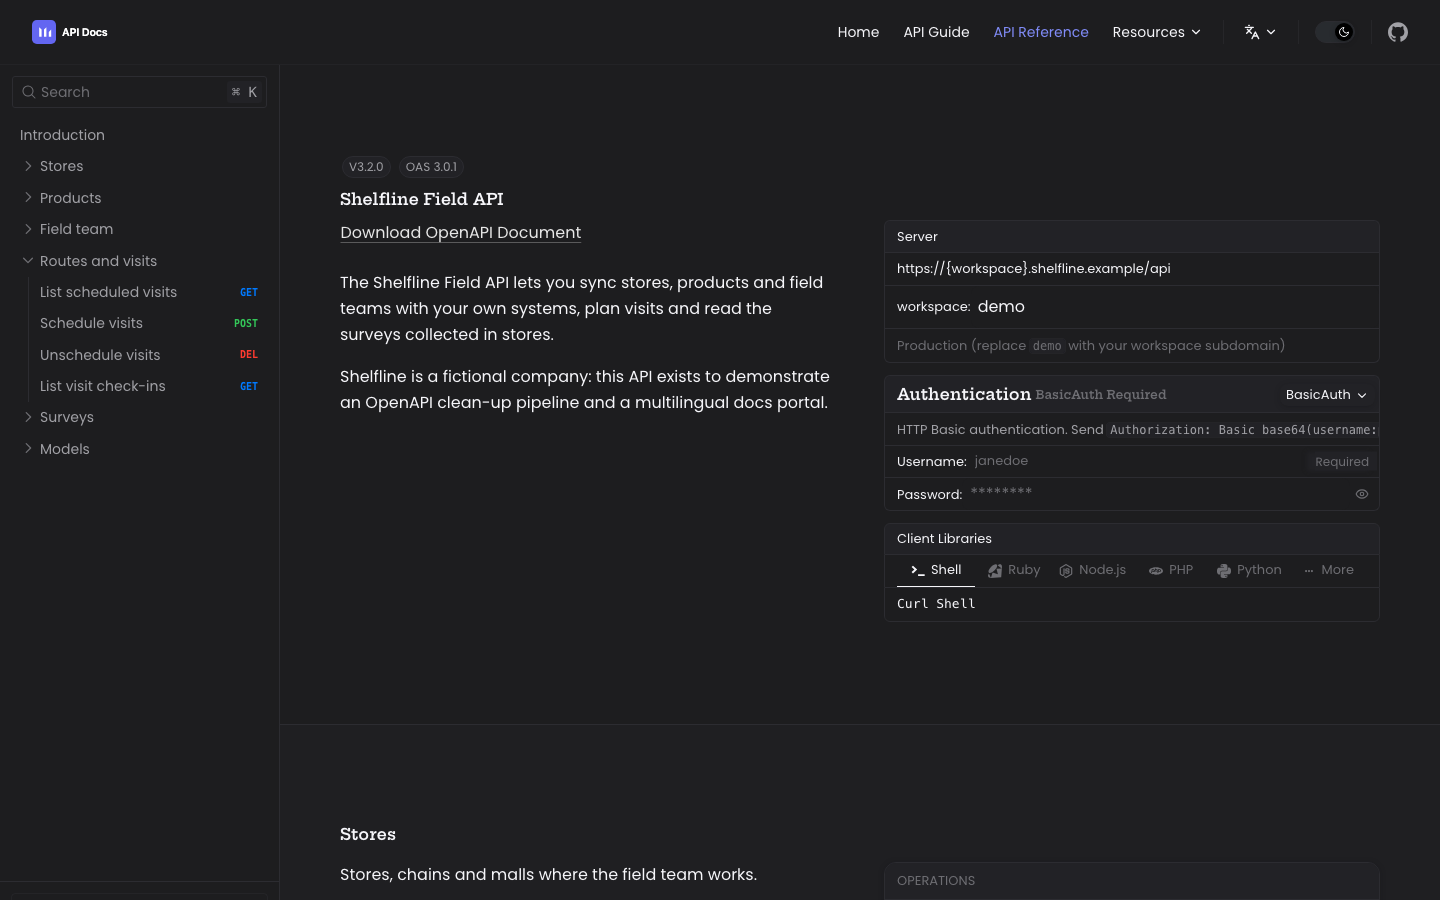
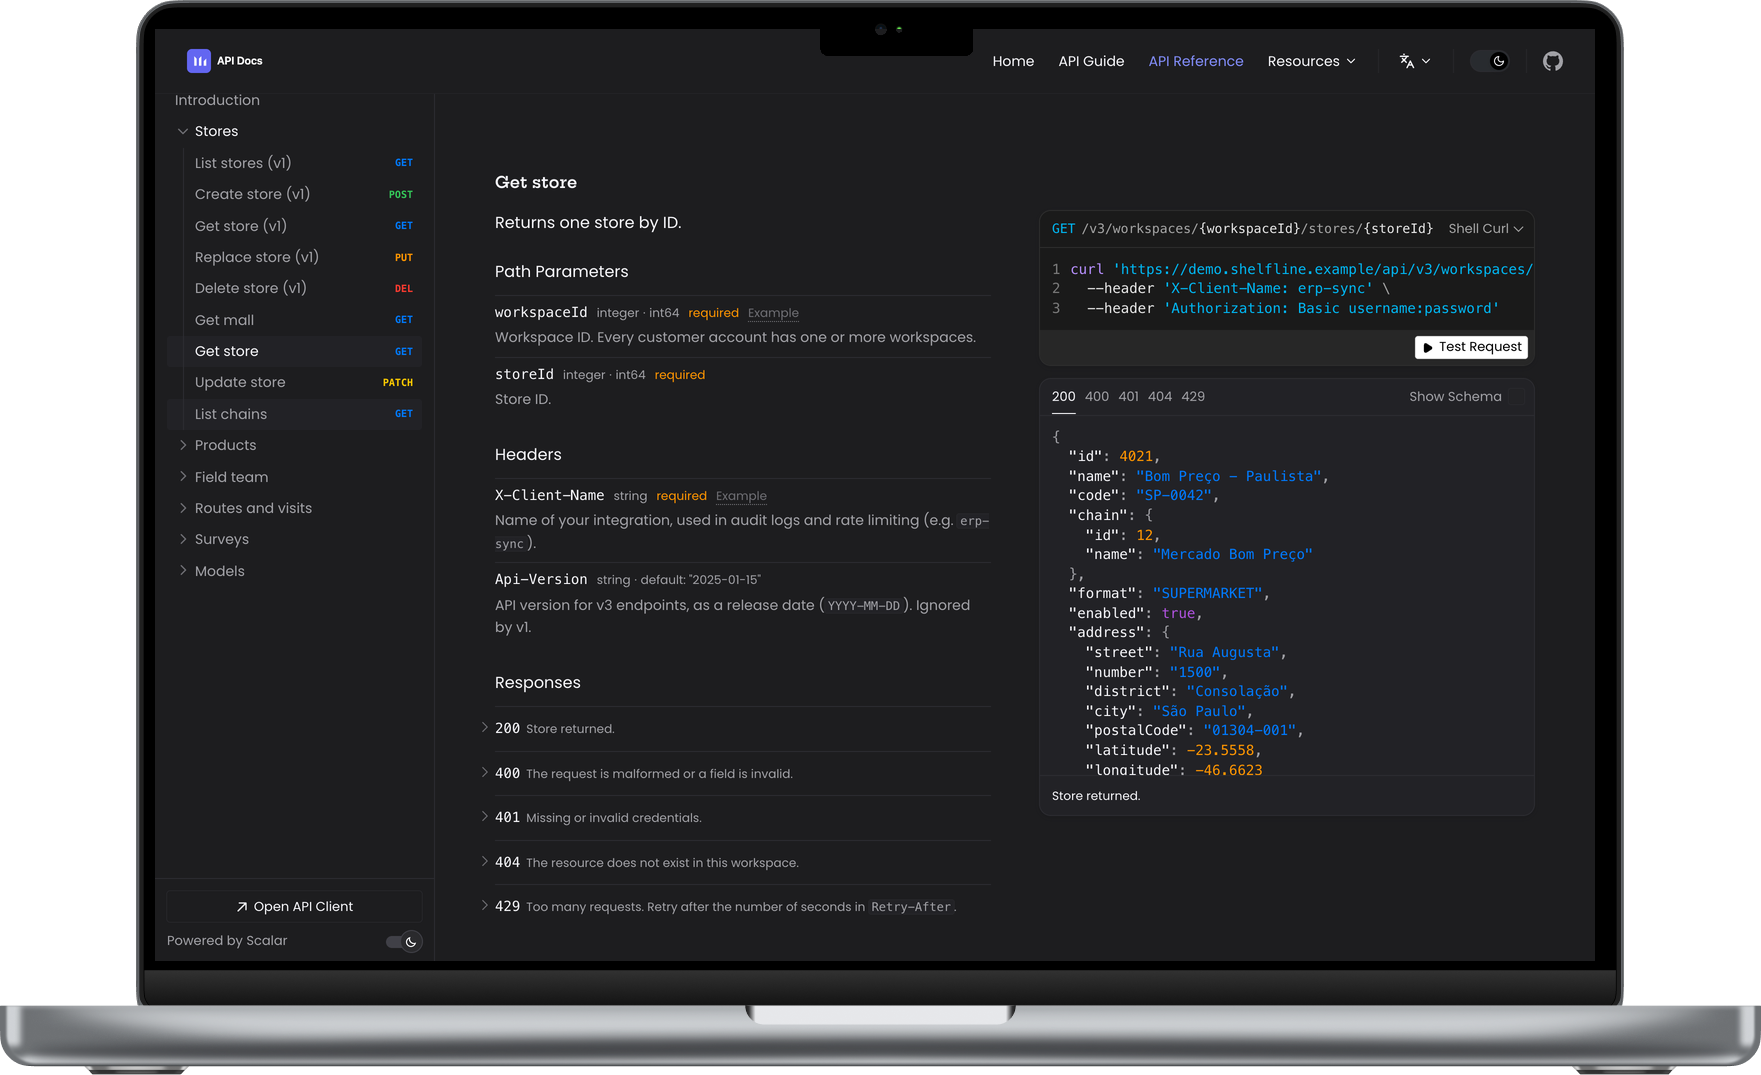
Bring back the MacBook hero with the new portal on screen

diff --git a/README.pt-br.md b/README.pt-br.md
@@ -51,7 +51,7 @@ spec crua ──► hydrate ► fix ► validate ──► docs/public/openapi.<
 1. Substitua `docs/public/openapi.*.json` pelas suas specs (uma por idioma, ou aponte todos os idiomas para o mesmo arquivo em `SPEC_BY_LANG`, dentro de `ScalarApi.vue`).
 2. Reescreva os guias em `docs/<lang>/` e ajuste as sidebars em `docs/.vitepress/config.ts`.
 3. Troque o bloco de marca em `docs/.vitepress/theme/theme.css` e os logos em `docs/public/`.
-4. Gere um novo `docs/public/preview.png` (1440×900 funciona bem).
+4. Gere um novo `docs/public/preview.png` (a página inicial mostra a imagem dentro de um MacBook: print em 1440×932 composto na área da tela).
 5. Publique em qualquer host estático. A demo roda no Cloudflare Workers Static Assets: `pnpm build && npx wrangler deploy` (configuração em `wrangler.jsonc`).
 
 ## Licença

diff --git a/README.md b/README.md
@@ -67,7 +67,7 @@ docs/
 1. Replace `docs/public/openapi.*.json` with your specs (one per language, or point every locale at the same file in `SPEC_BY_LANG` inside `ScalarApi.vue`).
 2. Rewrite the guide pages in `docs/<lang>/` and adjust the sidebars in `docs/.vitepress/config.ts`.
 3. Change the brand block in `docs/.vitepress/theme/theme.css` and the logos in `docs/public/`.
-4. Take a new `docs/public/preview.png` (1440×900 works well).
+4. Take a new `docs/public/preview.png` (the hero shows it inside a MacBook frame: screenshot at 1440×932 and composite it into the screen area).
 5. Deploy: any static host works. The live demo runs on Cloudflare Workers Static Assets: `pnpm build && npx wrangler deploy` (config in `wrangler.jsonc`).
 
 ## Screenshots
